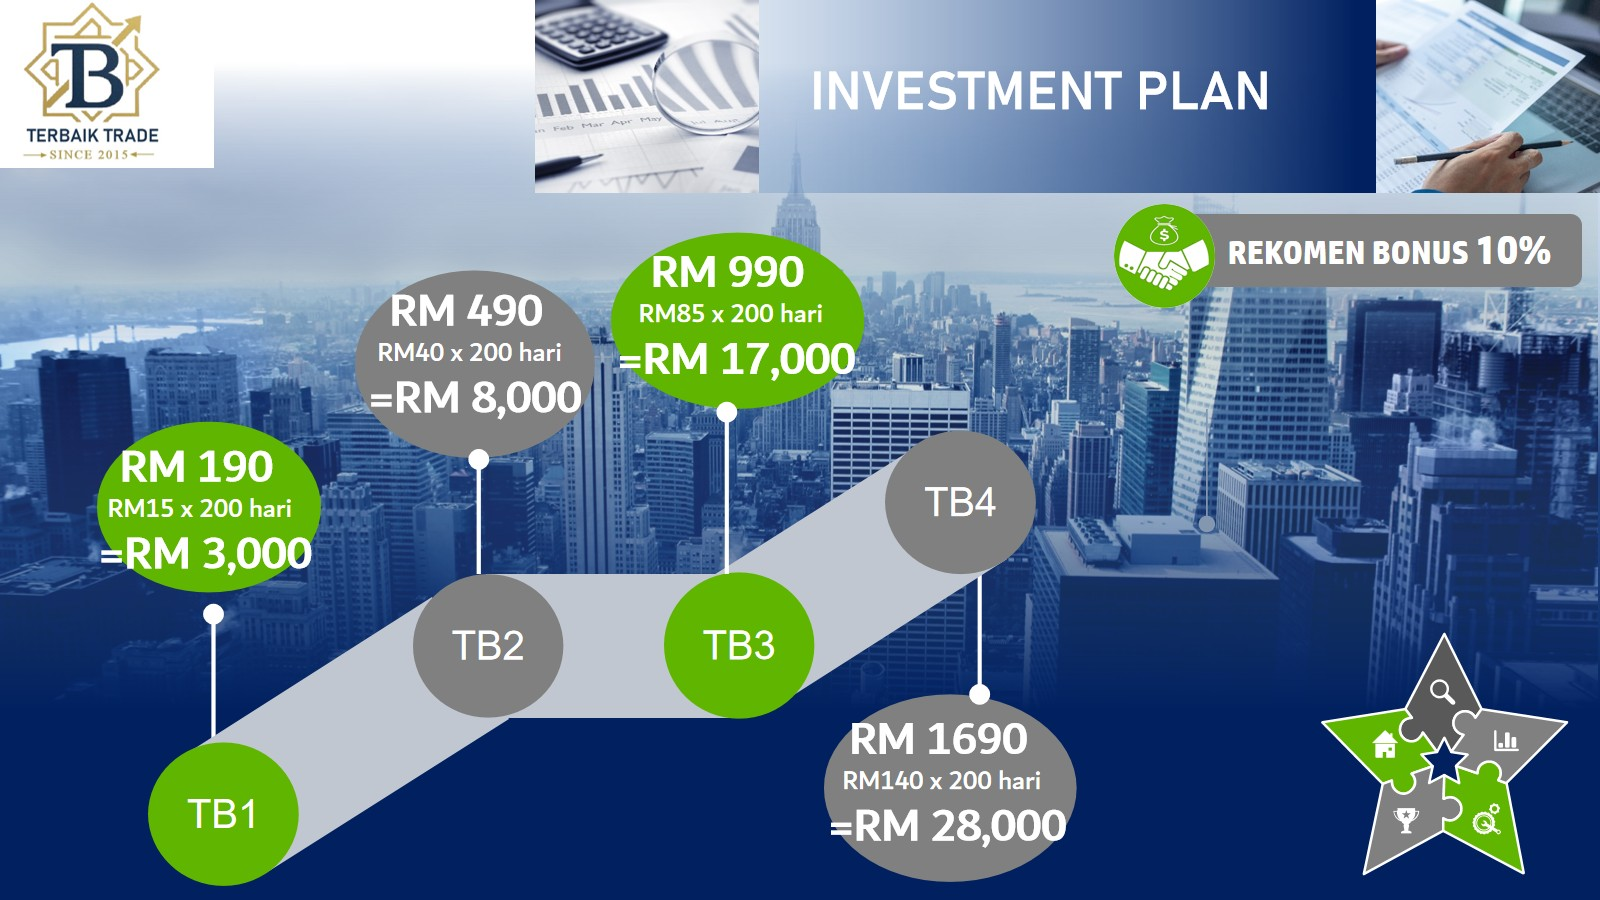
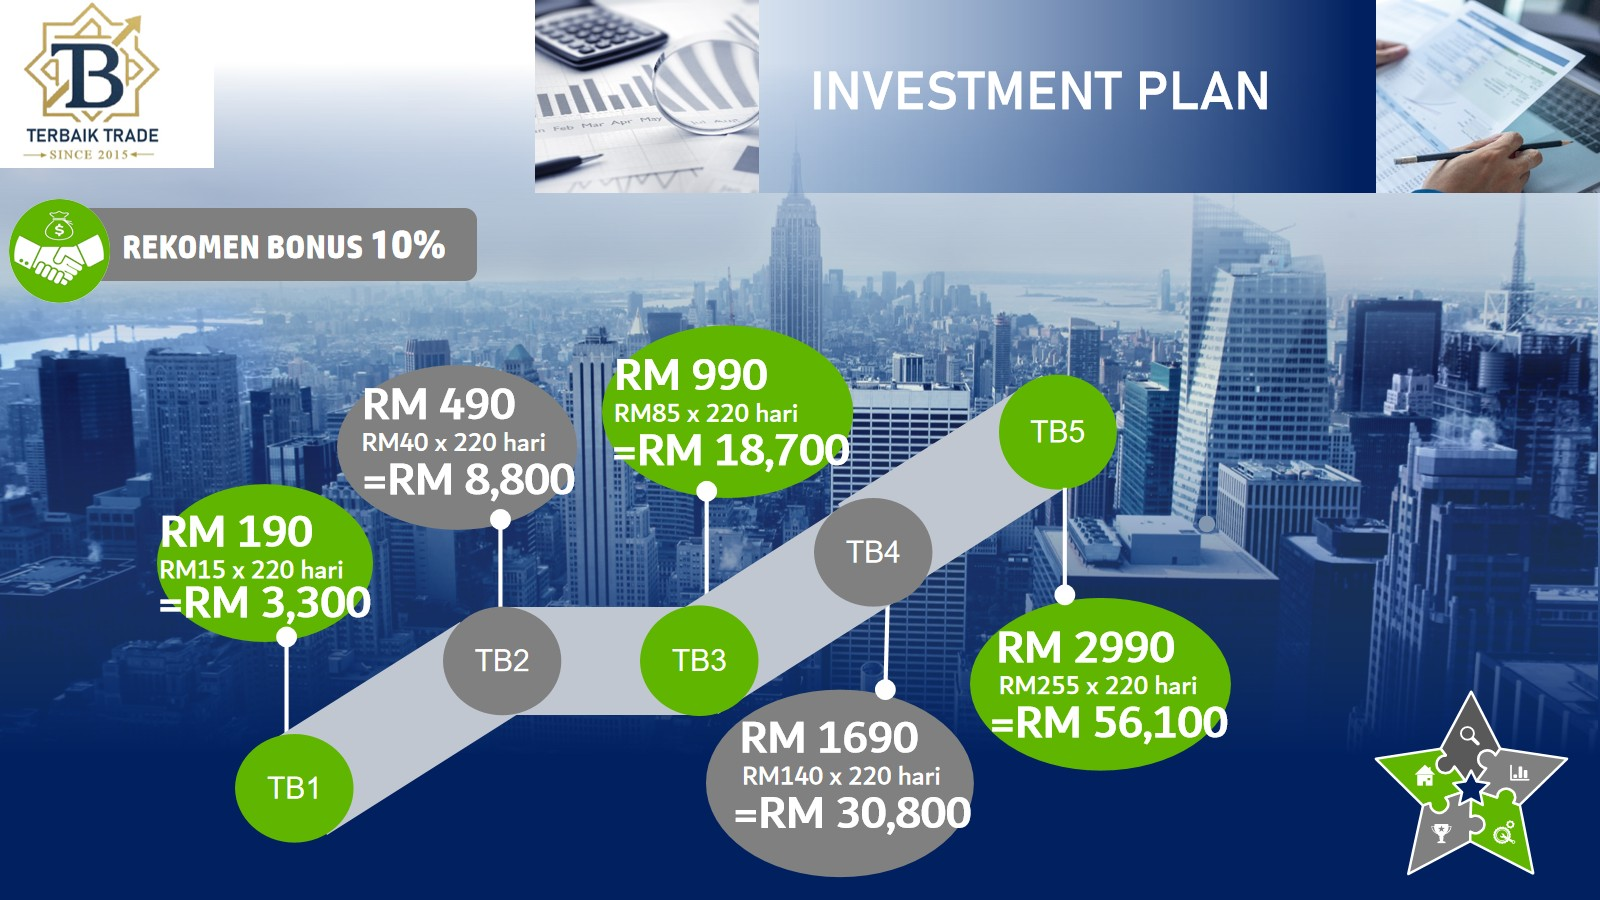
update add new plan

Changed region(s): [[0.0, 0.2178, 0.7812, 0.9956], [0.6875, 0.2178, 1.0, 0.3422], [0.8125, 0.7156, 1.0, 0.9644]]

diff --git a/plan.html b/plan.html
@@ -96,28 +96,28 @@
         <div class="flex-container">
             <div class="box center-text">
                 ♻ PLAN RM 190 <br>
-                RM 15 x 200 hari = RM 3,000
+                RM 15 x 220 hari = RM 3,300
             </div>
 
             <div class="box center-text">
                 ♻ PLAN RM 490 <br>
-                RM 40 x 200 hari = RM 8,000
+                RM 40 x 220 hari = RM 8,800
             </div>
 
             <div class="box center-text">
                 ♻ PLAN RM 990 <br>
-                RM 85 x 200 hari = RM 17,000
+                RM 85 x 220 hari = RM 18,700
             </div>
             
             <div class="box center-text">
                 ♻ PLAN RM 1690 <br>
-                RM 140 x 200 hari = RM 28,000
+                RM 140 x 220 hari = RM 30,800
             </div>
             
-            <!-- <div class="box center-text">
-                ♻ PLAN RM 3000 <br>
-                RM 250 x 140 hari = RM 35,000
-            </div> -->
+            <div class="box center-text">
+                ♻ PLAN RM 2990 <br>
+                RM 255 x 220 hari = RM 56,100
+            </div>
             
         </div>
 
